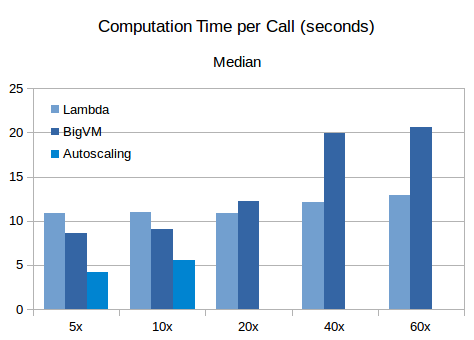
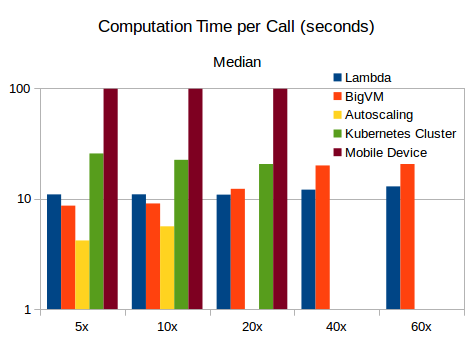
New charts and experimental discussion on presentation

diff --git a/LambdaSpatialModelChecking/lambda-spatialchecking.tex b/LambdaSpatialModelChecking/lambda-spatialchecking.tex
@@ -376,11 +376,14 @@ $(\mathsf{taxi} \wedge \mathcal{C} \mathsf{transportsubway}) \wedge \neg((\neg( 
 \begin{frame}\frametitle{Experimental Setup}
 
 We deployed a model checker (computation logic) and the current topology (static state) as a RESTful microservice. \\
-Three alternative architectures:
+Five alternative architectures:
 \begin{itemize}
+	
 \item \textbf{Lambda Functions}: 3Gb RAM (vCPU quotas are assigned accordingly)
 \item \textbf{Single Instance  of a Big VM}: Standard F64s\_v2 (64 vcpus, 128 GB memory)
 \item \textbf{Autoscaling Group}: 5 to 20 t1.micro VMs (1Gb Ram, 1vCPU each)
+\item \textbf{Kubernetes Cluster}: 20 nodes (1Gb Ram, 1vCPU each), up to 40 pods (containers)
+\item \textbf{Mobile Device}: Quad-core ARM A53 1.2Gz CPU, 1GB RAM
 \end{itemize}
 Positions tracker (dynamic state) deployed as another standalone microservice
 
@@ -398,7 +401,7 @@ Positions tracker (dynamic state) deployed as another standalone microservice
     \item  5x / 10x / 20x / 40x / 60x time multipliers.
 \end{itemize}
 
-\item Run the experiment combining the different time multipliers with the three alternative deployments
+\item Run the experiment combining the different time multipliers with the five alternative deployments
 % \item Defined a SLA of 30 seconds/call maximum
 \end{itemize}
 
@@ -417,9 +420,10 @@ Defined a SLA of 30 seconds/call maximum for responding to model checking reques
         \end{column}
         \begin{column}{0.5\textwidth}
             \begin{itemize}
-                \item The Autoscaling group had the \textbf{worst performance}. Requests timed out (504) with 20x time or more.
-\item Lambda held an almost \textbf{constant performance} (~12s/call) for all workloads
+                \item ASG and K8 had the \textbf{worst performance} in the Cloud. Requests timed out (504) with 20x time or more.
+\item Lambda held an almost \textbf{constant performance} (~12s/call) for all workloads.
 \item The BigVM \textbf{(baseline)} performed better (9-12s) up to 20x, then started to decrease performance.
+\item The Mobile Device computes requests sequentially with a constant performance of ~100s/call. 
             \end{itemize}
         \end{column}
     \end{columns}
@@ -454,11 +458,12 @@ Defined a SLA of 30 seconds/call maximum for responding to model checking reques
 
 
 \begin{itemize}
+\item The mobile device, even though it processes only its own requests, have a prohibitive computation time of ~100s, making it unsuitable in practice.
 \item Lambda functions kept a \textbf{constant performance} even under dense workloads, being more reactive and scalable.
 \item The BigVM used as a baseline performed well for medium workloads, but not against peaks or more dense workloads \\ \textbf{(e.g. workloads unknown beforehand)}.
-
-\item The autoscaling group did not seem suitable, but more experimentation is needed (fine-tuning parameters, scaling containers?).
-\item Cost analysis to come (if the workload is more or less known, lambda could become more costly in comparison)
+\item The Autoscaling Group (VMs) and Kubernetes (Containers) did not seem suitable, mainly because of scaling-up delays (even for containers).
+\item Cost analysis to come (if the workload is more or less known, lambda could become more costly in comparison).
+\item An hybrid approach could be considered: A baseline deployment with containers, that relies on Lambda Functions to handle unexpected bursts of workload.
 \end{itemize}
 \end{frame}
 
